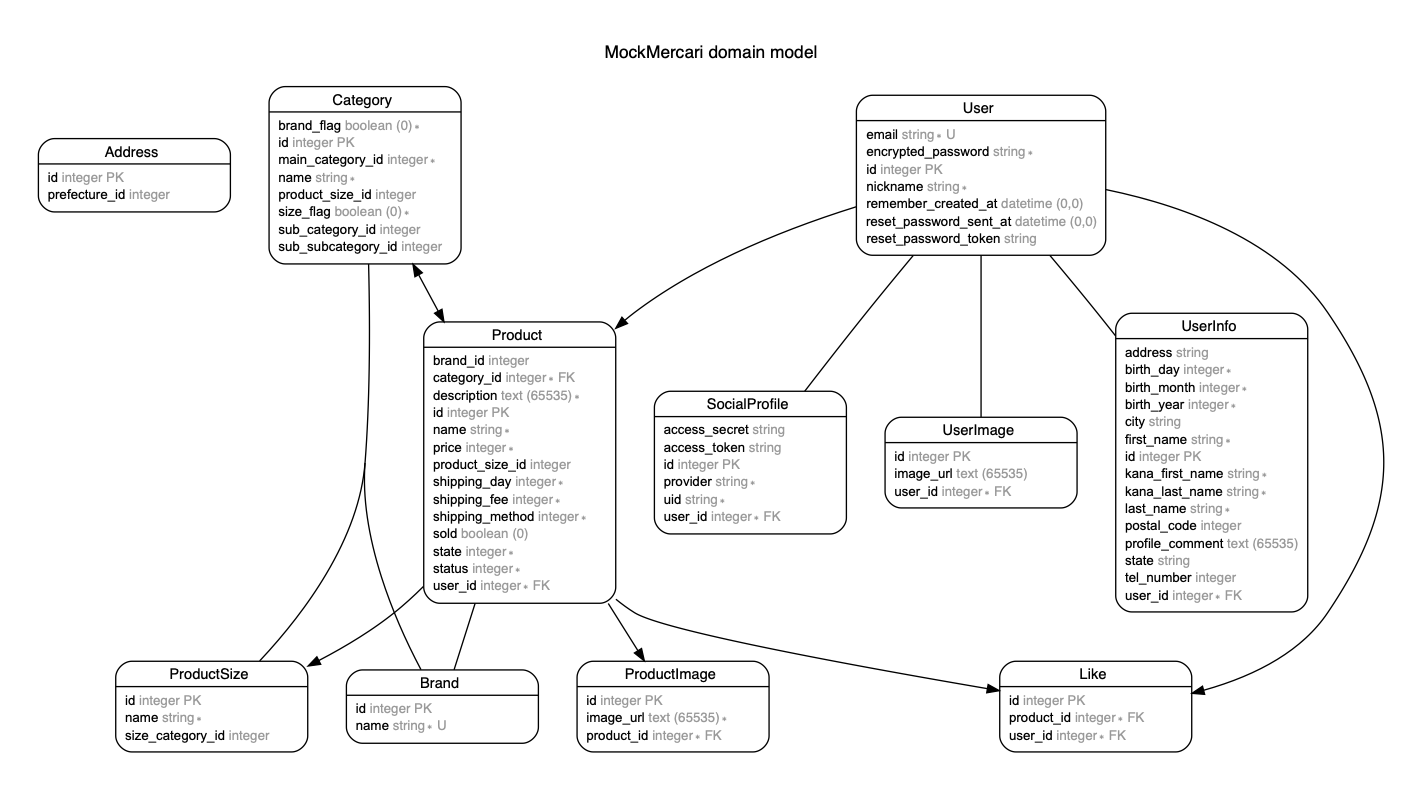
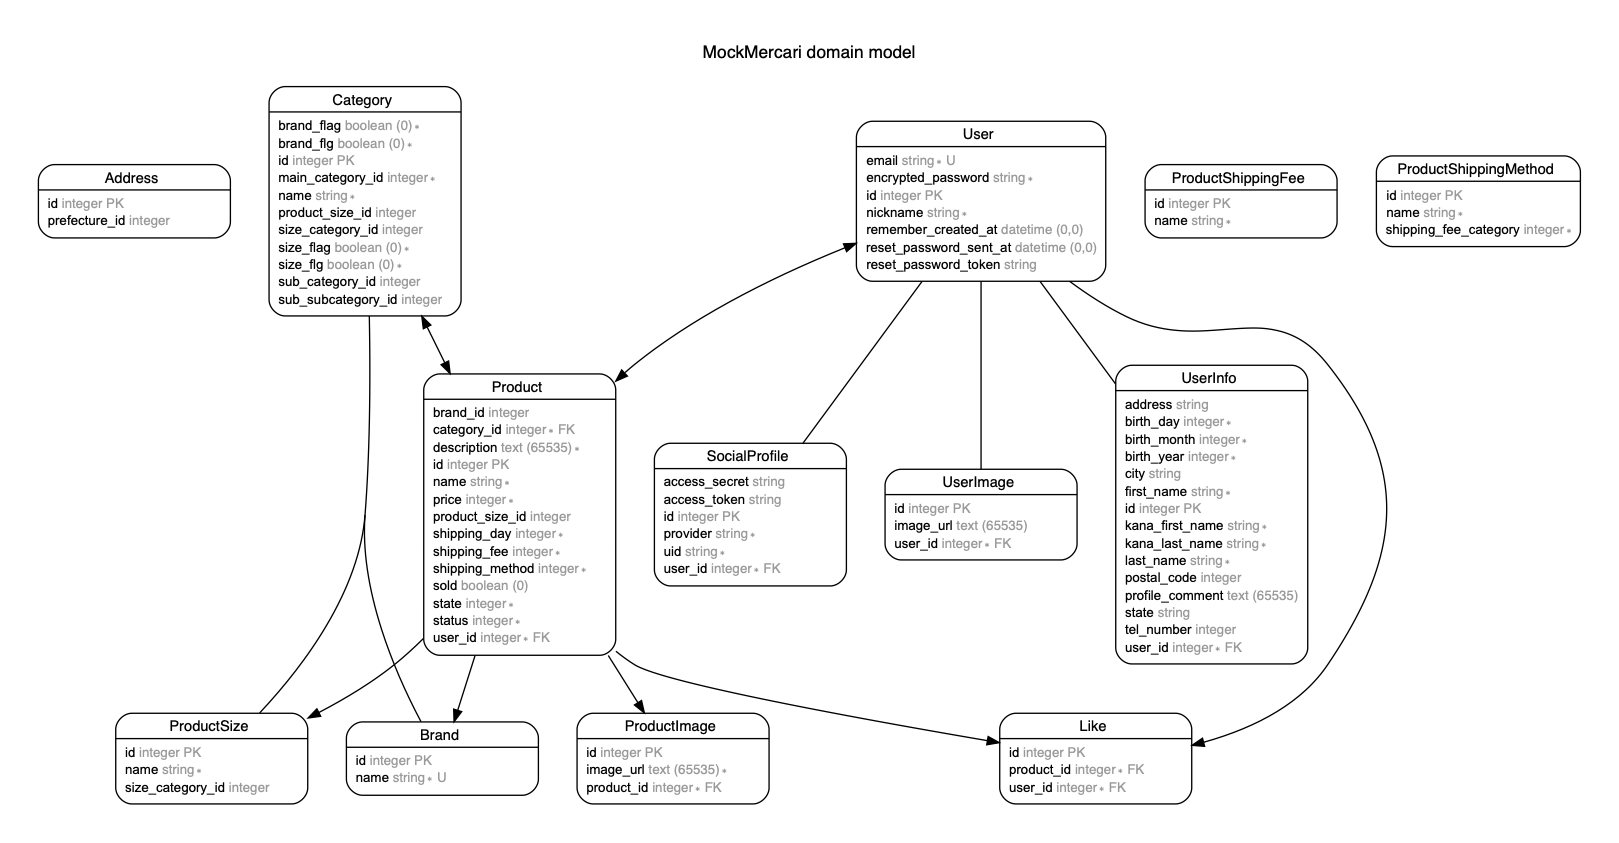
README更新

diff --git a/README.md b/README.md
@@ -7,31 +7,54 @@
 ### Railsのバージョン
 5.0.7.2
 
+### 使用gem一覧
+devise
+active_hash
+omniauth
+omniauth-facebook
+omniauth-google-oauth2
+kaminari
+ransack
+capistrano
+unicorn
+haml-rails
+font-awasome-rails
+carrierwave
+minni_magick
+dropzone-rails
+factory_bot
+faker
+capybara
+rails-erd
+
+
 # データベース設計
 
 ## usersテーブル
 
 |Column|Type|Options|
 |------|----|-------|
-|email|varchar(255)|null: false|
-|encrypted_password|varchar(255)|null:false|
+|email|string|null: false|
+|encrypted_password|string|null:false|
 |nickname|string|index: true, nill: false, unique: true|
 |custmer_id|string| |
 |card_token|string| |
-|uid|string| |
-|provider|string| |
+|remember_created_at|datetime| |
 
 ### Association
 - has_one :user_info, dependent: :destroy, class_name: User_info
-- has_many :products
+- has_one :social_profile
+- has_one :user_image
+- has_many :products, dependent: :destroy,
 - has_many :points
-- has_many :rates
-- has_many :likes, through: products
+- has_many :rates, dependent: :destroy
+- has_many :likes, through: products, dependent: :destroy
+- has_many :liked_posts, through: :likes, source: :product
 - has_many :orders, through: products
 - has_many :comments, through: products
 
 
-## user_infoテーブル
+## user_infosテーブル
 
 |Column|Type|Options|
 |------|----|-------|
@@ -43,16 +66,64 @@
 |state|string|null: false|
 |city|string|null: false|
 |address|string|null: false|
+|tel_number|integer|null: false|
 |birth_year|integer|null: false|
 |birth_month|integer|null: false|
 |birth_day|inteer|null: false|
 |profile_comment|text| |
 |user_id|string||
-|created_at|datetime||
-|update_at|datetime||
+
+### Assotiaction
+- belongs_to :user, optional: true
+
+## user_imagesテーブル
+
+|Column|Type|Options|
+|------|----|-------|
+|image_url|string||
+|user_id|integer|null: false|
+
+### Assotiaction
+- belongs_to :user, optional: true
+
+
+## social_profilesテーブル
+
+|Column|Type|Options|
+|------|----|-------|
+|provider|string|null: false|
+|uid|integer|null: false|
+|access_token|string||
+|access_secret|integer||
+|user_id|integer|null: false|
 
 ### Assotiaction
 - belongs_to :user
+
+
+## ratesテーブル
+
+|Column|Type|Options|
+|------|----|-------|
+|rate|string|null: false|
+|user_id|integer|null: false|
+|rater_it|integer|null: false|
+
+### Association
+- belongs_to :user
+
+
+## likesテーブル
+
+|Column|Type|Options|
+|------|----|-------|
+|product_id|integer|null :false|
+|user_id|integer|null :false|
+
+### Assosiation
+- belongs_to :product
+- belongs_to :user
+
 
 ## productsテーブル
 
@@ -63,9 +134,13 @@
 |shipping_fee|integer|null: false|
 |state|string|null: false|
 |shipping_day|integer|null: false|
+|shipping_method|integer|null: false|
 |price|integer|null: false|
 |size|string||
 |description|text|null: false, length:{maximum: 1000}|
+|category_id|integer|null: false|
+|brand_id|integer||
+|product_size_id|integer||
 |user_id|integer||
 |sold|boolean|default: false|
 |create_at|datetime||
@@ -74,12 +149,38 @@
 ### Association
 - belongs_to :user
 - has_one :order
-- has_one :category
-- has_one :subcategory
-- has_one :subsubcategory
+- has_meny :categories
+- has_one :product_size
+- has_one :brand
+- has_one :product_status
 - has_many :comments, dependent: :destroy
 - has_many :likes, dependent: :destroy
-- has_many :product_images
+- has_many :product_images, dependent: :destroy
+
+
+## product_imagesテーブル
+
+|Column|Type|Options|
+|------|----|-------|
+|image_url|text|null :false|
+|product_id|integer|null :false|
+
+### Assosiation
+- belongs_to :product
+
+
+## commentsテーブル
+
+|Column|Type|Options|
+|------|----|-------|
+|comment|text|null :false, length:{maximum: 1000}|
+|user_id|integer|null :false|
+|product_id|integer|null: false|
+|delete|boolean|default: false|
+
+### Assosiation
+- belongs_to :product
+- belongs_to :user
 
 
 ## pointsテーブル
@@ -90,20 +191,6 @@
 |user_id|integer|null: false|
 |created_at|datetime||
 |deadline_at|datetime||
-
-### Association
-- belongs_to :user
-
-
-## ratesテーブル
-
-|Column|Type|Options|
-|------|----|-------|
-|rate|string|null: false|
-|user_id|integer|null: false|
-|rated_it|integer|null: false|
-|created_at|datetime||
-|update_at|datetime||
 
 ### Association
 - belongs_to :user
@@ -124,83 +211,28 @@
 - belongs_to :user
 
 
-## commentsテーブル
-
-|Column|Type|Options|
-|------|----|-------|
-|comment|text|null :false, length:{maximum: 1000}|
-|user_id|integer|null :false|
-|product_id|integer|null: false|
-|created_at|datetime||
-|update_at|datetime||
-
-### Assosiation
-- belongs_to :product
-- belongs_to :user
-
-
-## likesテーブル
-
-|Column|Type|Options|
-|------|----|-------|
-|product_id|integer|null :false|
-|user_id|integer|null :false|
-
-### Assosiation
-- belongs_to :product
-- belongs_to :user
-
-
-## product_imagesテーブル
-
-|Column|Type|Options|
-|------|----|-------|
-|image_url|text|null :false|
-|product_id|integer|null :false|
-
-### Assosiation
-- belongs_to :product
-
-
 ## categoriesテーブル
 
 |Column|Type|Options|
 |------|----|-------|
 |name|string||
-|product_id|integer|null :false|
+|main_category_id|integer||
+|sub_category_id|integer||
+|sub_subcaterogy_id|integer||
+|size_flg|boolean||
+|brand_flg|boolean||
+|product_size_id|integer||
+|size_category_id|integer||
 
 ### Assosiation
 - belongs_to :product
 
 
-## subcategoriesテーブル
+## Active_hash
 
-|Column|Type|Options|
-|------|----|-------|
-|name|string||
-|product_id|integer|null :false|
-
-### Assosiation
-- belongs_to :product
-
-
-## subsubcategoriesテーブル
-
-|Column|Type|Options|
-|------|----|-------|
-|name|string||
-|product_id|integer|null :false|
-
-### Assosiation
-- belongs_to :product
-
-
-## brandsテーブル
-
-|Column|Type|Options|
-|------|----|-------|
-|name|string||
-|product_id|integer|null :false|
-
-### Assosiation
-- belongs_to :product
+- Prefecture
+- Category
+- Status
+- Product_shipping_fee
+- Product_shipping_method
+- Brand
